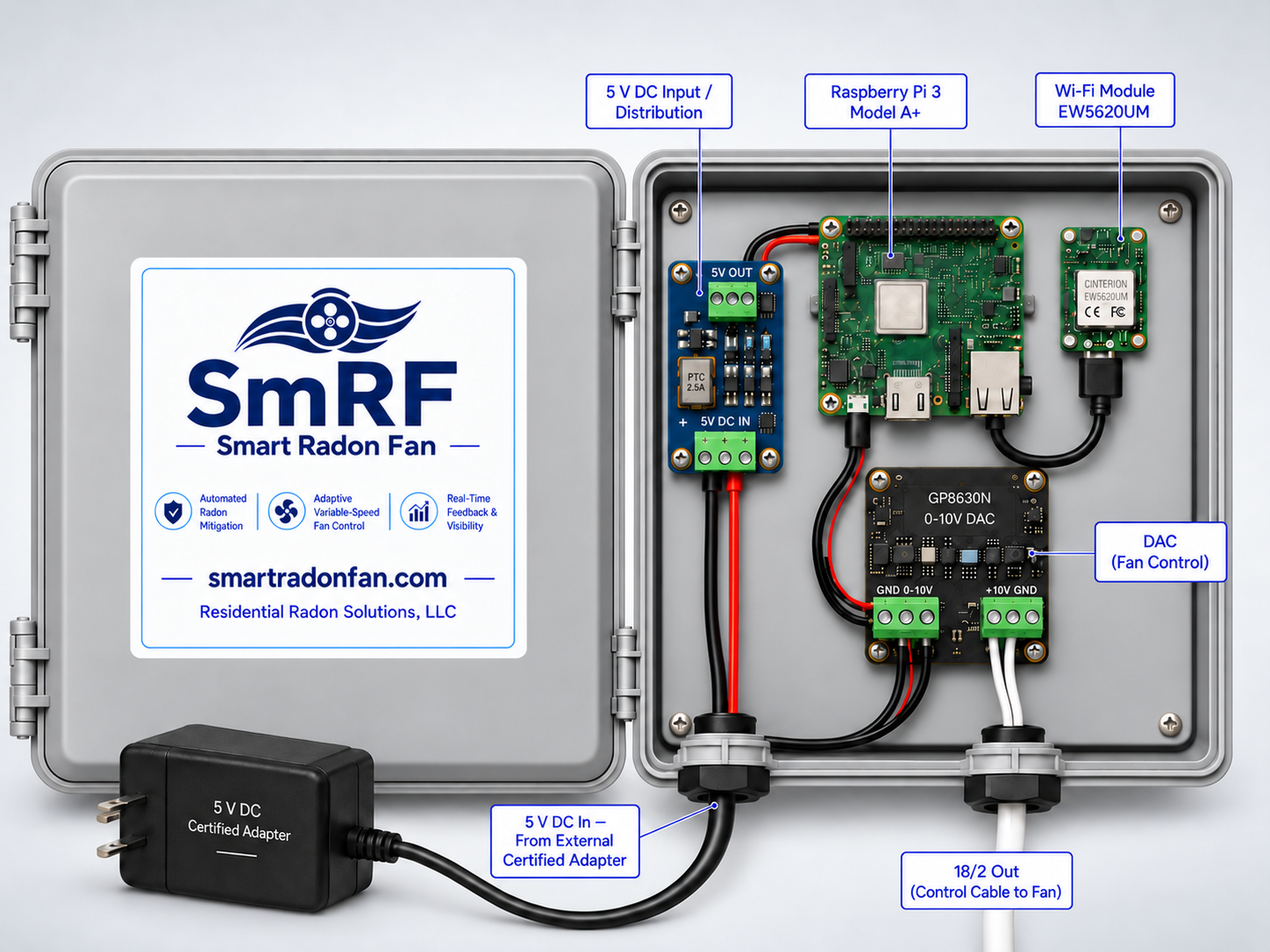
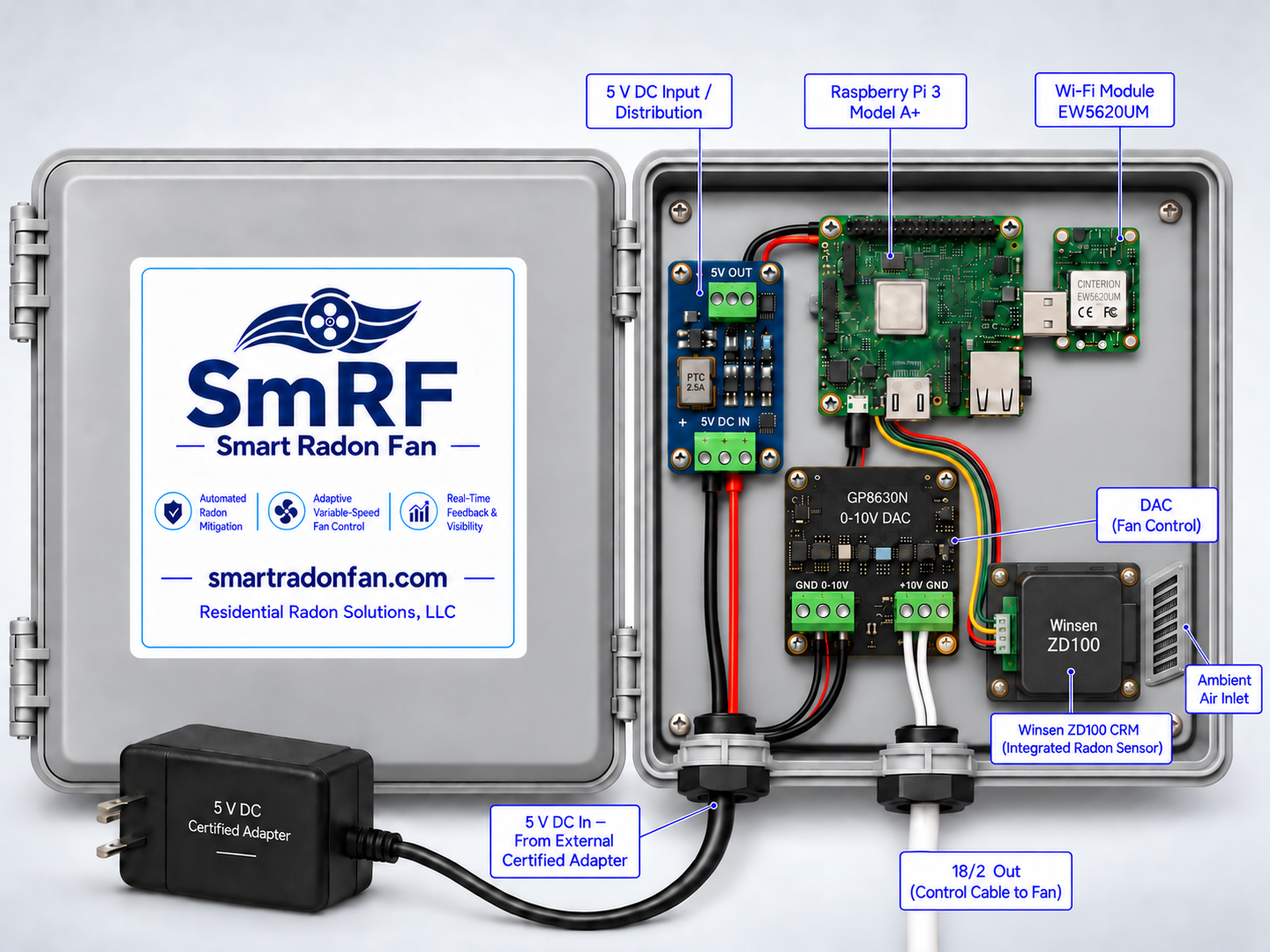
Update SmRF product mockups

diff --git a/viewer.html b/viewer.html
@@ -1,85 +1,8 @@
 <!DOCTYPE html>
-<html lang="en">
-<head>
-<meta charset="utf-8"/>
-<meta content="width=device-width, initial-scale=1" name="viewport"/>
-<meta content="Sign in to SmRF Viewer or create an installer account to claim VS-WiFi systems, review fleet performance, and manage issues." name="description"/>
-<title>SmRF Viewer | Smart Radon Fan</title>
-<link href="styles.css" rel="stylesheet"/>
-</head>
-<body>
-<div class="container">
-<header class="nav">
-<div class="brand">
-<a class="logoLink" href="index.html"><img alt="Smart Radon Fan logo" class="logoimg" src="assets/srf-logo.png"/></a>
-<div><h1 id="companyName">Residential Radon Solutions, LLC</h1><p id="tagline">Automated variable-speed radon mitigation</p></div>
-</div>
-<nav aria-label="primary" class="navlinks">
-<a href="index.html">Home</a>
-<a class="navActive" href="viewer.html">Viewer</a>
-<a href="field-results.html">Field Results</a>
-<a href="whitepapers.html">White Papers</a>
-<a href="index.html#contact">Contact</a>
-<a class="navLogin" data-viewer-url href="https://api.smartradonfan.com/installer">Installer Login</a>
-</nav>
-</header>
-
-<section class="hero viewerHero">
-<div class="card heroMain">
-<div class="kicker">Installer account • Fleet dashboard • Claim Code</div>
-<h2>Your installed SmRF systems, in one Viewer</h2>
-<p>Sign in to review the VS-WiFi systems your organization manages. The Viewer brings current radon, 7-day and 30-day averages, average fan utilization, report timing, system status, and outstanding issues into one operational fleet view.</p>
-<p>SmRF control remains local at every site. The Viewer adds remote visibility so installers can focus attention where it is needed.</p>
-<div class="ctaRow">
-<a class="btn btnPrimary" data-viewer-url href="https://api.smartradonfan.com/installer">Open Installer Viewer</a>
-<a class="btn btnSecondary" data-viewer-signup-url href="https://api.smartradonfan.com/installer/signup">Create Installer Account</a>
-</div>
-<p class="small viewerAccessNote">Installer accounts are for organizations that install or manage SmRF VS-WiFi systems.</p>
-</div>
-<aside class="card heroSide viewerAccountCard">
-<div class="architectureEyebrow">SmRF Viewer workflow</div>
-<ol class="viewerSteps">
-<li><span>1</span><div><h3>Create an account</h3><p>Set up the installer organization and account owner.</p></div></li>
-<li><span>2</span><div><h3>Add each SmRF</h3><p>Enter the Claim Code shown on that SmRF’s Managed Setup page.</p></div></li>
-<li><span>3</span><div><h3>Review the fleet</h3><p>Filter installations, inspect trends, and address outstanding issues.</p></div></li>
-</ol>
-</aside>
-</section>
-
-<section class="section">
-<div class="sectionHeader"><h3>What installers can do</h3><p>The Viewer is organized for periodic fleet review—not high-volume emergency email alerting.</p></div>
-<div class="grid4">
-<div class="feature"><div aria-hidden="true" class="icon">🏠</div><h4>Claim installations</h4><p>Add a reporting SmRF with its site-specific Claim Code. Each system belongs to the appropriate installer organization.</p></div>
-<div class="feature"><div aria-hidden="true" class="icon">📊</div><h4>Compare performance</h4><p>Review daily radon, 7-day and 30-day averages, fan utilization, status, and last-report timing.</p></div>
-<div class="feature"><div aria-hidden="true" class="icon">⚠</div><h4>Review issues</h4><p>Use fleet filters and the outstanding-issues list to find systems that deserve follow-up.</p></div>
-<div class="feature"><div aria-hidden="true" class="icon">🛠</div><h4>Inspect a site</h4><p>Open an individual SmRF for its radon-and-fan history and the context needed for remote service.</p></div>
-</div>
-</section>
-
-<section class="section">
-<div class="sectionHeader"><h3>Claiming a SmRF</h3><p>The Claim Code proves that the installer has access to the physical SmRF or its local Managed Setup page.</p></div>
-<div class="claimFlow">
-<div class="panel claimStep"><div class="stepNumber">1</div><h4>Open Managed Setup</h4><p class="small">At the SmRF site—or through authorized remote access—open the device’s Managed Setup page and locate its Claim Code.</p></div>
-<div class="panel claimStep"><div class="stepNumber">2</div><h4>Select Add SmRF</h4><p class="small">Sign in to the Viewer, choose <strong>Add SmRF</strong>, and enter the Claim Code exactly as shown.</p></div>
-<div class="panel claimStep"><div class="stepNumber">3</div><h4>Confirm the fleet card</h4><p class="small">The claimed system appears in the organization’s fleet and can be opened for detailed review.</p></div>
-</div>
-</section>
-
-<section class="section">
-<div class="sectionHeader"><h3>Fleet and device views</h3><p>The fleet dashboard supports fast review; the device page provides the trend detail behind each installation.</p></div>
-<div class="panel viewerScreenshot"><img alt="SmRF Viewer showing multiple installed sites and a variable-speed SmRF installation" src="assets/smrf-viewer-variable-speed.png"/></div>
-</section>
-
-<section class="section">
-<div class="sectionHeader"><h3>Connected when useful. Local where it matters.</h3><p>Viewer is not part of the control loop. SmRF VS-WiFi continues controlling the fan locally if cloud connectivity is unavailable. Installations that do not need permanent WiFi can instead use SmRF VS-BLE.</p></div>
-<div class="callout">
-<div class="left"><h4>Ready to review your installed systems?</h4><p>Open the secure Viewer, sign in to your installer account, and continue from your fleet dashboard.</p></div>
-<div class="ctaRow"><a class="btn btnPrimary" data-viewer-url href="https://api.smartradonfan.com/installer">Open Installer Viewer</a></div>
-</div>
-</section>
-
-<footer class="footer"><div class="row"><div><div style="font-weight:650;color:var(--text)">SmRF — Smart Radon Fan <span class="muted" style="font-weight:500;font-size:12px;margin-left:8px">Patent Pending</span></div></div><div class="badges"><span class="badge">Installer fleet</span><span class="badge">Claim Code</span><span class="badge">In-Viewer issues</span></div></div><div style="height:10px"></div><div class="small">SmRF Viewer provides optional remote visibility into measured radon, fan operation, and system health for VS-WiFi installations.</div></footer>
-</div>
-<script src="config.js"></script><script src="app.js"></script>
-</body>
-</html>
+<html lang="en"><head><meta charset="utf-8"/><meta content="width=device-width, initial-scale=1" name="viewport"/><meta content="SmRF Viewer is the optional connected layer for SmRF VS-WiFi, providing installer dashboards, radon history, fan output, alerts, reports, logs, and charts." name="description"/><title>SmRF Viewer | Smart Radon Fan</title><link href="styles.css" rel="stylesheet"/></head>
+<body><div class="container"><header class="nav"><div class="brand"><a class="logoLink" href="index.html"><img alt="Smart Radon Fan logo" class="logoimg" src="assets/srf-logo.png"/></a><div><h1 id="companyName">Residential Radon Solutions, LLC</h1><p id="tagline">Automated variable-speed radon mitigation</p></div></div><nav aria-label="primary" class="navlinks"><a href="index.html">Home</a><a class="navActive" href="viewer.html">Viewer</a><a href="field-results.html">Field Results</a><a href="whitepapers.html">White Papers</a><a href="index.html#contact">Contact</a></nav></header>
+<section class="hero viewerHero"><div class="card heroMain"><div class="kicker">VS-WiFi option • Installer dashboard • Remote verification</div><h2>Viewer is the optional connected layer for SmRF VS-WiFi</h2><p>The radon-control loop remains local. When remote visibility is useful, a VS-WiFi installation can report to the SmRF Viewer for one organized operational view of the installed base.</p><p>The Viewer brings together the measured radon result and commanded mitigation: current readings, averages, variable fan speed, status, decision reason, report timing, logs, charts, and alerts.</p><div class="ctaRow"><a class="btn btnPrimary" href="index.html#contact">Installer &amp; Industry Contact</a><a class="btn btnSecondary" href="index.html#connectivity">Compare WiFi and BLE</a></div></div><aside class="card heroSide viewerAccountCard"><div class="architectureEyebrow">SmRF VS-WiFi</div><h3>One account. The installations you manage.</h3><p>Each VS-WiFi SmRF can be claimed to the appropriate installer account. The Viewer then becomes the installer's remote dashboard for that installed base.</p><div class="miniGrid"><div class="mini"><h4>Radon result</h4><p>Current values and averages show mitigation performance.</p></div><div class="mini"><h4>Fan percentage</h4><p>Variable-speed systems report commanded fan output.</p></div><div class="mini"><h4>Exceptions &amp; alerts</h4><p>Sites needing attention can be identified quickly.</p></div><div class="mini"><h4>History &amp; service</h4><p>Cards, logs, charts, and reports support remote diagnosis.</p></div></div></aside></section>
+<section class="section"><div class="sectionHeader"><h3>Manage customer sites remotely</h3><p>A unique installer database keeps claimed SmRF installations organized and can surface intelligent alerts when a site needs attention.</p></div><div class="grid4"><div class="feature"><div class="icon">🏠</div><h4>Claim installations</h4><p>Add individual VS-WiFi SmRF systems to the installer account.</p></div><div class="feature"><div class="icon">📊</div><h4>Compare sites</h4><p>See radon, averages, fan output, system state, and last-report timing together.</p></div><div class="feature"><div class="icon">⚠</div><h4>Surface exceptions</h4><p>Status and alert information helps identify sites that may need attention.</p></div><div class="feature"><div class="icon">🛠</div><h4>Support remotely</h4><p>Logs, charts, and reports can inform service before a site visit.</p></div></div></section>
+<section class="section"><div class="sectionHeader"><h3>Viewer example</h3><p>The current Viewer includes fixed-speed field systems and the variable-speed development system, which reports fan percentage rather than simply ON or OFF.</p></div><div class="panel" style="width:100%;"><img alt="SmRF Viewer showing multiple installed sites and a variable-speed SmRF installation" src="assets/smrf-viewer-variable-speed.png" style="width:100%;max-width:none;display:block;margin-top:0;"/></div></section>
+<section class="section"><div class="sectionHeader"><h3>Connected when useful. Local where it matters.</h3><p>Viewer is not part of the control loop. SmRF VS-WiFi continues controlling the fan locally if cloud connectivity is unavailable. Installations that do not need permanent WiFi can instead use SmRF VS-BLE.</p></div><div class="callout"><div class="left"><h4>Control locally. Verify remotely — when desired.</h4><p>SmRF VS-WiFi adds remote visibility without making the cloud a dependency for radon control.</p></div><div class="badges"><span class="badge">Radon result</span><span class="badge">Fan %</span><span class="badge">Status &amp; alerts</span><span class="badge">Logs &amp; charts</span><span class="badge">Reports</span></div></div></section>
+<footer class="footer"><div class="row"><div><div style="font-weight:650;color:var(--text)">SmRF — Smart Radon Fan <span class="muted" style="font-weight:500;font-size:12px;margin-left:8px">Patent Pending</span></div></div><div class="badges"><span class="badge">VS-WiFi option</span><span class="badge">Installer dashboard</span><span class="badge">Remote verification</span></div></div><div style="height:10px"></div><div class="small">SmRF Viewer provides optional remote visibility into measured radon, fan operation, and system health for VS-WiFi installations.</div></footer></div><script src="config.js"></script><script src="app.js"></script></body></html>

diff --git a/field-results.html b/field-results.html
@@ -6,6 +6,7 @@
 <nav aria-label="primary" class="navlinks"><a href="index.html">Home</a><a href="viewer.html">Viewer</a><a class="navActive" href="field-results.html">Field Results</a><a href="whitepapers.html">White Papers</a><a href="index.html#contact">Contact</a></nav></header>
 <section class="hero heroResultsBalanced"><div class="card heroMain"><div class="kicker">Field validation • Control evolution • Variable-speed direction</div><h2>Field results: proving the feedback-and-control concept</h2><p>SmRF began with automated ON/OFF operation of conventional fixed-speed radon fans in occupied homes. That prototype work was the stepping stone to variable-speed control and provided real operating data for the CRM, local controller, fan-control logic, reporting, and diagnostics.</p><p>The field evidence also made the next step clear: variable-speed fans allow the same feedback architecture to control toward a specified radon level rather than choose only between zero and full output.</p><ul class="heroList"><li><strong>Measured response:</strong> radon changed in response to commanded fan states.</li><li><strong>Platform validation:</strong> control, reporting, diagnostics, and Viewer operated together.</li><li><strong>Engineering conclusion:</strong> target-based variable fan speed provides finer mitigation control.</li></ul><div class="ctaRow"><a class="btn btnPrimary" href="index.html#product">See the Variable-Speed Product</a><a class="btn btnSecondary" href="viewer.html">See the Viewer</a></div></div><aside class="card heroSide resultsChartCard"><div class="architectureEyebrow">Representative field chart</div><figure class="resultsChartFigure"><img alt="SmRF field chart showing automated fan ON and OFF response" class="chartLargeHero resultsChartHero" src="assets/radon-chart.png"/><figcaption>The ON/OFF field work demonstrated clear radon responsiveness to commanded fan states and helped validate the broader SmRF sensing, control, logging, and reporting platform.</figcaption></figure></aside></section>
 <section class="section"><div class="sectionHeader"><h3>What the ON/OFF field work established</h3><p>The historical installations remain part of the SmRF story because they provided the evidence and operating experience behind the variable-speed product direction.</p></div><div class="grid4"><div class="feature"><div class="icon">📟</div><h4>Continuous measurement</h4><p>CRM data can serve as the feedback signal for mitigation control.</p></div><div class="feature"><div class="icon">⚙</div><h4>Automated decisions</h4><p>SmRF can act on measured radon without requiring manual fan operation.</p></div><div class="feature"><div class="icon">📈</div><h4>Radon responsiveness</h4><p>Field data showed meaningful response to changes in fan state.</p></div><div class="feature"><div class="icon">🧭</div><h4>Platform direction</h4><p>The field prototype established the sensing-and-control foundation that now supports both VS-WiFi and VS-BLE.</p></div></div><div class="split" style="margin-top:28px;align-items:center;"><div class="panel"><h4>Early SmRF fixed-speed managed interface</h4><p class="small">Before the shift to variable-speed fans, SmRF fielded managed fixed-speed installations using automated ON/OFF control. That work validated the broader control platform and helped generate the fan-to-radon response data shown above.</p></div><div class="panel"><img alt="Early SmRF fixed-speed managed status interface" src="assets/smrf-fixed-speed-ui.png" style="width:100%;max-width:440px;display:block;margin:0 auto;"/><p class="small" style="margin-top:12px">Representative managed status page from the fixed-speed phase of SmRF development.</p></div></div><div class="split" style="margin-top:28px;align-items:center;"><div class="panel"><h4>Representative early field deployment</h4><p class="small">This early fixed-speed SmRF installation shows the core field elements that informed the product evolution: an Airthings CRM, the SmRF controller, and the installed mitigation stack. Together, these deployments established that measured radon could drive automated mitigation decisions in real homes.</p><p class="small">Those field lessons directly led to the current variable-speed direction, where the same sensing-and-control concept is paired with a compatible EC fan and target-based control algorithm.</p></div><div class="panel"><img alt="Representative early SmRF fixed-speed field deployment" src="assets/smrf-fs-field-deployment.png" style="width:100%;max-width:560px;display:block;margin:0 auto;border-radius:16px;"/><p class="small" style="margin-top:12px">Early field hardware example from the fixed-speed phase of SmRF development.</p></div></div></section>
+<section class="section"><div class="sectionHeader"><h3>Variable-speed control in operation</h3><p>The current SmRF VS platform extends the field-proven feedback architecture by adjusting a compatible EC fan across a range of operating speeds while continuing to measure the resulting indoor radon level.</p></div><figure class="figure panel"><img alt="SmRF VS field chart showing measured radon, the 2.0 pCi/L target, the seven-day average, and variable fan output from 20 to 100 percent" src="assets/smrf-vs-field-chart-september-2026.png"/><figcaption>Representative SmRF VS field operation during September 2026. The red series shows measured radon, the orange series shows the seven-day average, the dashed green line marks the 2.0 pCi/L target, and the blue stepped line shows the commanded fan rate. Over the displayed period, SmRF automatically varied fan output between 20% and 100% as conditions changed.</figcaption></figure></section>
 <section class="section"><div class="sectionHeader"><h3>Where the product is going</h3><p>SmRF now focuses on compatible variable-speed EC radon fans, a hardwired 0–10 V control signal, and algorithms that regulate toward a selected radon target. The same local control platform can be paired with WiFi + Viewer or BLE smartphone connectivity.</p></div><div class="split"><div class="panel"><h4>New mitigation installations</h4><p class="small">Install SmRF and a compatible variable-speed fan as an integrated control-and-verification system from the start.</p></div><div class="panel"><h4>Fan replacement / upgrade</h4><p class="small">Replace an existing fixed-speed fan with a compatible variable-speed fan and add an 18/2 control pair between SmRF and the fan.</p></div></div></section>
-<section class="section"><div class="sectionHeader"><h3>Production direction</h3><p>The production direction carries forward the locally autonomous sensing-and-control platform proven in the field while replacing fan-side smart switching with direct variable-speed control.</p></div><div class="panel"><img alt="SmRF production concept" src="assets/smrf-production-mockup.png" style="width:100%;max-width:none;display:block;margin-top:0;"/></div></section>
+<section class="section"><div class="sectionHeader"><h3>Production direction</h3><p>The production direction carries forward the locally autonomous sensing-and-control platform proven in the field while replacing fan-side smart switching with direct variable-speed control.</p></div><div class="panel"><img alt="SmRF VS-WiFi production concept with integrated radon sensor and direct-connect Wi-Fi module" src="assets/smrf-production-mockup.png" style="width:100%;max-width:none;display:block;margin-top:0;"/></div></section>
 <footer class="footer"><div class="small">SmRF field results are part of an ongoing development and validation program. Final production configuration and certification are in progress.</div></footer></div><script src="config.js"></script><script src="app.js"></script></body></html>

diff --git a/index.html b/index.html
@@ -20,7 +20,6 @@
 <a href="field-results.html">Field Results</a>
 <a href="whitepapers.html">White Papers</a>
 <a href="index.html#contact">Contact</a>
-<a class="navLogin" data-viewer-url href="https://api.smartradonfan.com/installer">Installer Login</a>
 </nav>
 </header>
 
@@ -59,15 +58,15 @@
 <div class="variantLabel">Connected option</div>
 <h4>SmRF VS-WiFi</h4>
 <p class="variantLead">Variable-speed control + optional Viewer</p>
-<img alt="SmRF VS-WiFi production concept with Raspberry Pi, WiFi, DAC, AC input, and 18/2 control output" src="assets/smrf-production-mockup.png"/>
-<ul><li><strong>Remote verification</strong></li><li><strong>Installer fleet dashboard</strong></li><li><strong>In-Viewer issues + trends</strong></li></ul>
+<img alt="SmRF VS-WiFi production concept with Raspberry Pi controller, direct-connect Wi-Fi module, integrated radon sensor, DAC, external 5 V power, and 18/2 fan-control output" src="assets/smrf-production-mockup.png"/>
+<ul><li><strong>Remote verification</strong></li><li><strong>Installer dashboard</strong></li><li><strong>Alerts + reports</strong></li></ul>
 <a class="btn btnSecondary" href="viewer.html">See the Viewer</a>
 </div>
 <div class="panel variantCard">
 <div class="variantLabel">Local option</div>
 <h4>SmRF VS-BLE</h4>
 <p class="variantLead">Variable-speed control + smartphone UI</p>
-<img alt="SmRF VS-BLE production concept with BLE controller, local history storage, AC input, and 18/2 control output" src="assets/smrf-vs-ble-mockup.png"/>
+<img alt="SmRF VS-BLE production concept with BLE controller, integrated radon sensor, local history storage, external 5 V power, and 18/2 fan-control output" src="assets/smrf-vs-ble-mockup.png"/>
 <ul><li><strong>Local setup + status</strong></li><li><strong>No home WiFi required</strong></li><li><strong>Smartphone interface</strong></li></ul>
 </div>
 </div>
@@ -113,14 +112,14 @@
 <section class="section" id="viewer">
 <div class="sectionHeader">
 <h3>SmRF Viewer — optional remote verification for VS-WiFi</h3>
-<p>SmRF VS-WiFi can add the Viewer as a connected layer. An installer account provides one organized view of the SmRF installations it manages, including radon history, fan output, report timing, outstanding issues, and service information.</p>
+<p>SmRF VS-WiFi can add the Viewer as a connected layer. An installer account provides one organized view of the SmRF installations it manages, including radon history, fan output, alerts, reports, and service information.</p>
 </div>
 <div class="split">
 <div class="panel" style="grid-column:1 / -1;">
 <h4>One installer account. Every claimed VS-WiFi installation.</h4>
-<p class="small">The Viewer organizes daily radon, 7-day and 30-day averages, average fan utilization, system status, last-report timing, fleet filters, outstanding issues, and device-level history. A site-specific Claim Code associates each SmRF with the appropriate installer account.</p>
+<p class="small">The Viewer can organize current radon values and averages, variable fan speed, system status, decision reason, last report, cards, logs, charts, alerts, and reports. A site-specific claim process associates each SmRF with the appropriate installer account.</p>
 <img alt="SmRF Viewer showing multiple installations including a variable-speed SmRF" src="assets/smrf-viewer-variable-speed.png" style="width:100%;max-width:none;display:block;margin-top:14px;"/>
-<div class="ctaRow"><a class="btn btnPrimary" data-viewer-url href="https://api.smartradonfan.com/installer">Open Installer Viewer</a><a class="btn btnSecondary" href="viewer.html">How the Viewer Works</a></div>
+<div class="ctaRow"><a class="btn btnPrimary" href="viewer.html">Explore Viewer Features</a></div>
 </div>
 </div>
 </section>
@@ -143,7 +142,7 @@
 </div>
 <div class="split">
 <div class="panel"><h4 id="contactName">Michael J. Gutmann</h4><p style="margin:0;color:var(--muted)"><span id="contactPhone">503 869 9507</span></p><div style="height:10px"></div><p class="small"><a class="link" href="mailto:info@smartradonfan.com"><span id="contactEmail">info@smartradonfan.com</span></a></p></div>
-<div class="panel"><h4>SmRF platform</h4><ul><li>CRM-based closed-loop radon control</li><li>Target-based variable-speed fan algorithms</li><li>Hardwired 0–10 V fan command over 18/2 cable</li><li><strong>VS-WiFi:</strong> optional Viewer, fleet trends, in-Viewer issues, remote verification</li><li><strong>VS-BLE:</strong> local smartphone setup/status, no permanent home WiFi required</li></ul><p class="small">Patent pending. Development and field-validation platform; final production configuration and certification are in progress.</p></div>
+<div class="panel"><h4>SmRF platform</h4><ul><li>CRM-based closed-loop radon control</li><li>Target-based variable-speed fan algorithms</li><li>Hardwired 0–10 V fan command over 18/2 cable</li><li><strong>VS-WiFi:</strong> optional Viewer, alerts, reports, remote verification</li><li><strong>VS-BLE:</strong> local smartphone setup/status, no permanent home WiFi required</li></ul><p class="small">Patent pending. Development and field-validation platform; final production configuration and certification are in progress.</p></div>
 </div>
 </section>
 

diff --git a/guide.html b/guide.html
@@ -1,1 +1,1 @@
-<!DOCTYPE html><html lang="en"><head><meta charset="utf-8"/><meta content="width=device-width, initial-scale=1" name="viewport"/><title>SmRF Installation Architecture</title><link href="styles.css" rel="stylesheet"/></head><body><div class="container"><header class="nav"><div class="brand"><a class="logoLink" href="index.html"><img alt="Smart Radon Fan logo" class="logoimg" src="assets/srf-logo.png"/></a><div><h1>Residential Radon Solutions, LLC</h1><p>Automated variable-speed radon mitigation</p></div></div><nav aria-label="primary" class="navlinks"><a href="index.html">Home</a><a href="viewer.html">Viewer</a><a href="field-results.html">Field Results</a><a href="whitepapers.html">White Papers</a><a href="index.html#contact">Contact</a></nav></header><section class="docHero card"><div class="kicker">Local control • 0–10 V • 18/2 fan-control cable</div><h2>SmRF installation architecture</h2><p class="muted">SmRF uses a simple hardwired low-voltage path between the controller and a compatible variable-speed radon fan. The fan keeps conventional AC power; SmRF supplies the 0–10 V control command.</p></section><section class="docSection"><div class="split"><div class="panel"><h4>Controller</h4><ul><li>Raspberry Pi controller with local automation software</li><li>Continuous radon monitor connected locally</li><li>0–10 V DAC fan-control output</li><li>Remote Viewer and reporting connectivity</li></ul></div><div class="panel"><h4>Fan connection</h4><ul><li>Compatible EC variable-speed radon fan</li><li>Conventional continuous AC power to the fan</li><li>Ordinary 18/2 cable from SmRF to the fan control terminals</li><li>No fan-side Wi-Fi control device required</li></ul></div></div><figure class="figure"><img alt="SmRF system architecture schematic" src="assets/smrf-system-architecture.png"/><figcaption>SmRF system architecture: the CRM provides local measurement feedback, the controller drives fan control, and the Viewer provides remote visibility and management.</figcaption></figure><figure class="figure"><img alt="SmRF production concept" src="assets/smrf-production-mockup.png"/><figcaption>Production-oriented SmRF concept showing AC input, 5 V power supply, Raspberry Pi controller, DAC fan control, and 18/2 control output.</figcaption></figure></section><footer class="footer"><div class="small">Final installation details, wiring practices, and regulatory requirements are subject to production engineering and certification.</div></footer></div></body></html>
+<!DOCTYPE html><html lang="en"><head><meta charset="utf-8"/><meta content="width=device-width, initial-scale=1" name="viewport"/><title>SmRF Installation Architecture</title><link href="styles.css" rel="stylesheet"/></head><body><div class="container"><header class="nav"><div class="brand"><a class="logoLink" href="index.html"><img alt="Smart Radon Fan logo" class="logoimg" src="assets/srf-logo.png"/></a><div><h1>Residential Radon Solutions, LLC</h1><p>Automated variable-speed radon mitigation</p></div></div><nav aria-label="primary" class="navlinks"><a href="index.html">Home</a><a href="viewer.html">Viewer</a><a href="field-results.html">Field Results</a><a href="whitepapers.html">White Papers</a><a href="index.html#contact">Contact</a></nav></header><section class="docHero card"><div class="kicker">Local control • 0–10 V • 18/2 fan-control cable</div><h2>SmRF installation architecture</h2><p class="muted">SmRF uses a simple hardwired low-voltage path between the controller and a compatible variable-speed radon fan. The fan keeps conventional AC power; SmRF supplies the 0–10 V control command.</p></section><section class="docSection"><div class="split"><div class="panel"><h4>Controller</h4><ul><li>Raspberry Pi controller with local automation software</li><li>Continuous radon monitor connected locally</li><li>0–10 V DAC fan-control output</li><li>Remote Viewer and reporting connectivity</li></ul></div><div class="panel"><h4>Fan connection</h4><ul><li>Compatible EC variable-speed radon fan</li><li>Conventional continuous AC power to the fan</li><li>Ordinary 18/2 cable from SmRF to the fan control terminals</li><li>No fan-side Wi-Fi control device required</li></ul></div></div><figure class="figure"><img alt="SmRF system architecture schematic" src="assets/smrf-system-architecture.png"/><figcaption>SmRF system architecture: the CRM provides local measurement feedback, the controller drives fan control, and the Viewer provides remote visibility and management.</figcaption></figure><figure class="figure"><img alt="SmRF VS-WiFi production concept with integrated radon sensor and direct-connect Wi-Fi module" src="assets/smrf-production-mockup.png"/><figcaption>Production-oriented SmRF VS-WiFi concept showing the Raspberry Pi controller, direct-connect Wi-Fi module, integrated radon sensor, DAC fan control, external 5 V input, and 18/2 control output.</figcaption></figure></section><footer class="footer"><div class="small">Final installation details, wiring practices, and regulatory requirements are subject to production engineering and certification.</div></footer></div></body></html>

diff --git a/styles.css b/styles.css
@@ -41,16 +41,6 @@ a{color:inherit}
 .navlinks{display:flex;gap:18px;align-items:center;flex-wrap:nowrap}
 .navlinks a{opacity:.9;text-decoration:none;font-size:13px;color:var(--muted)}
 .navlinks a:hover{color:var(--text)}
-.navlinks .navLogin{
-  padding:8px 11px;
-  border:1px solid rgba(94,234,212,.35);
-  border-radius:12px;
-  background:rgba(94,234,212,.08);
-  color:var(--accent);
-  font-weight:700;
-  opacity:1;
-}
-.navlinks .navLogin:hover{background:rgba(94,234,212,.14);color:#ccfbf1}
 
 .hero{
   padding:28px 0 12px;
@@ -665,20 +655,6 @@ a{color:inherit}
 @media (max-width:900px){
   .viewerHero{grid-template-columns:1fr;}
 }
-
-/* --- v17: website entry point for the installer Viewer --- */
-.viewerAccessNote{margin-top:14px!important;max-width:none!important}
-.viewerSteps{list-style:none;margin:4px 0 0;padding:0;display:grid;gap:12px}
-.viewerSteps li{display:grid;grid-template-columns:38px 1fr;gap:12px;align-items:start;padding:13px;border:1px solid var(--border);border-radius:16px;background:rgba(0,0,0,.15)}
-.viewerSteps li > span,.stepNumber{width:34px;height:34px;display:grid;place-items:center;border-radius:12px;background:rgba(94,234,212,.12);border:1px solid rgba(94,234,212,.28);color:var(--accent);font-weight:800}
-.viewerSteps h3{margin:1px 0 5px;font-size:15px}
-.viewerSteps p{margin:0;color:var(--muted);font-size:13px;line-height:1.45}
-.claimFlow{display:grid;grid-template-columns:repeat(3,1fr);gap:14px}
-.claimStep{display:grid;align-content:start;gap:10px}
-.claimStep h4,.claimStep p{margin:0}
-.viewerScreenshot{padding:14px}
-.viewerScreenshot img{width:100%;max-width:none;display:block;margin:0}
-@media (max-width:900px){.claimFlow{grid-template-columns:1fr}}
 
 
 /* --- v14: one control platform, two connectivity options --- */

diff --git a/saved/index.html b/saved/index.html
@@ -60,7 +60,7 @@ The production concept packages local control, communications, power conversion,
 </div>
 <div class="split">
 <div class="panel" style="grid-column:1 / -1;">
-<img alt="SmRF production concept showing enclosure, Raspberry Pi controller, DAC and 18/2 fan-control output" src="../assets/smrf-production-mockup.png" style="width:100%;max-width:none;display:block;margin-top:0;"/>
+<img alt="SmRF VS-WiFi production concept with Raspberry Pi controller, direct-connect Wi-Fi module, integrated radon sensor, DAC, external 5 V power, and 18/2 fan-control output" src="../assets/smrf-production-mockup.png" style="width:100%;max-width:none;display:block;margin-top:0;"/>
 </div>
 </div>
 <div style="height:14px"></div>

diff --git a/app.js b/app.js
@@ -9,13 +9,6 @@
   setText('contactPhone', cfg.contactPhone || '503 869 9507');
   setText('contactEmail', cfg.contactEmail || 'info@smartradonfan.com');
 
-  document.querySelectorAll('[data-viewer-url]').forEach((link) => {
-    link.href = cfg.installerViewerUrl || 'https://api.smartradonfan.com/installer';
-  });
-  document.querySelectorAll('[data-viewer-signup-url]').forEach((link) => {
-    link.href = cfg.installerSignupUrl || 'https://api.smartradonfan.com/installer/signup';
-  });
-
   // Update title
   document.title = `${cfg.productName || 'Smart Radon Fan'} — ${cfg.companyName || 'Residential Radon Solutions, LLC'}`;
 })();

diff --git a/config.js b/config.js
@@ -6,7 +6,5 @@ window.SITE_CONFIG = {
   contactName: "Michael J. Gutmann",
   contactAddress: "1125 NE 3rd Avenue, Hillsboro, OR 97124",
   contactPhone: "503 869 9507",
-  contactEmail: "info@smartradonfan.com",
-  installerViewerUrl: "https://api.smartradonfan.com/installer",
-  installerSignupUrl: "https://api.smartradonfan.com/installer/signup"
+  contactEmail: "info@smartradonfan.com"
 };
